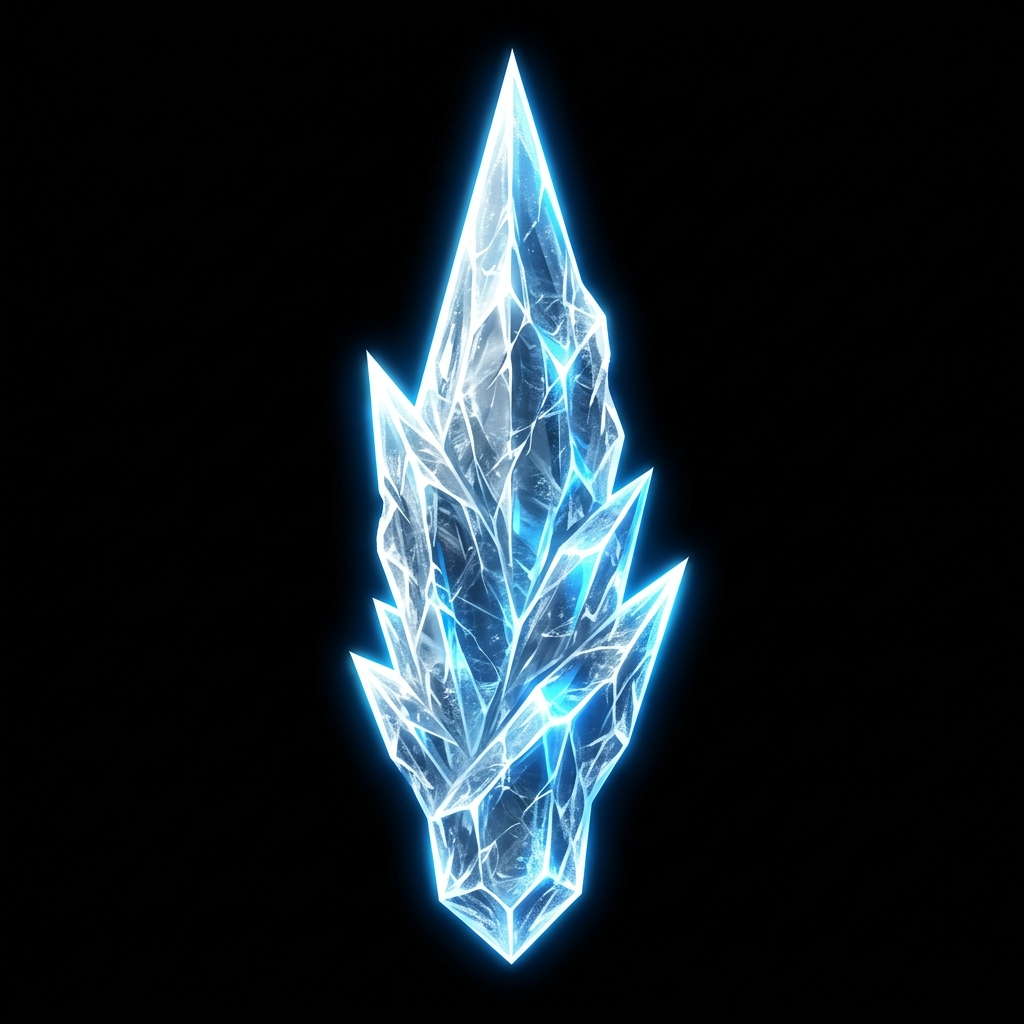
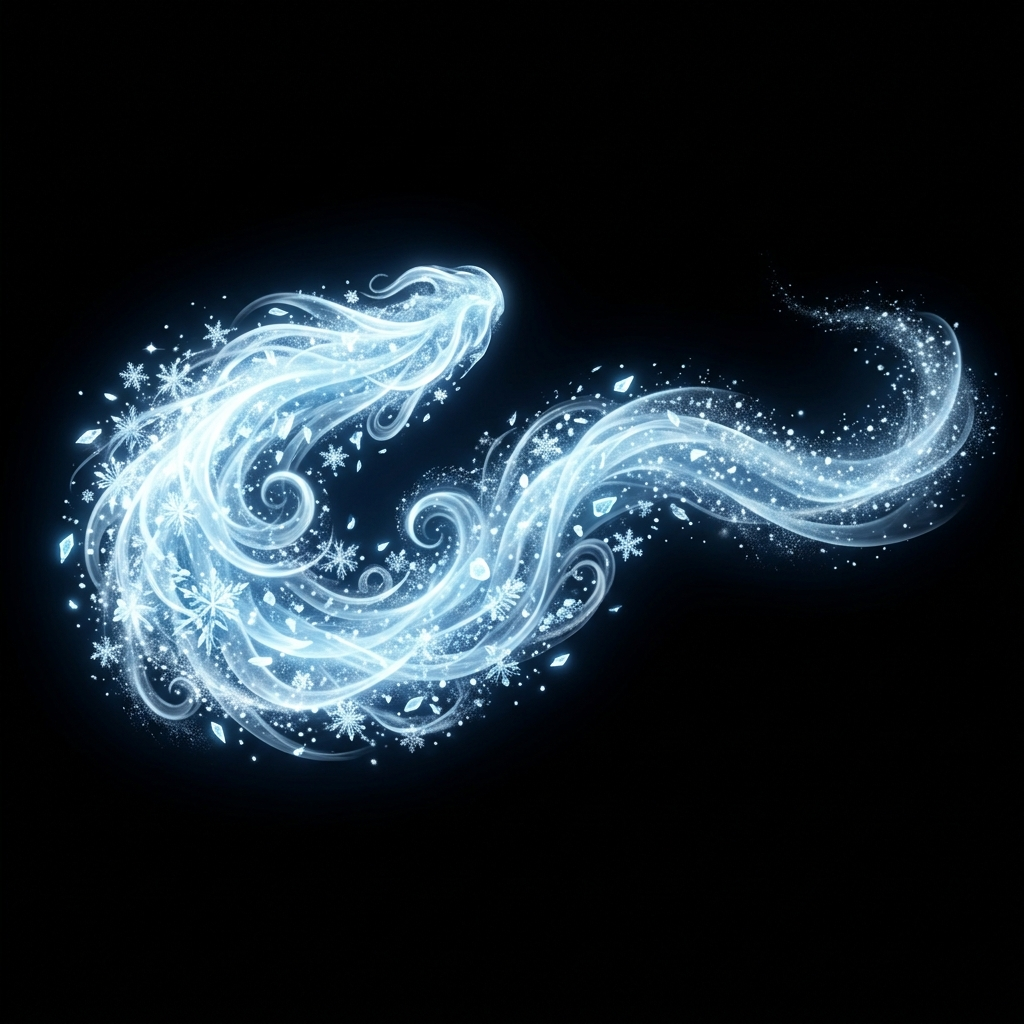
Skills Fixeados

diff --git a/descon/server/systems/combatHandlers.js b/descon/server/systems/combatHandlers.js
@@ -193,35 +193,42 @@ function registerCombatHandlers(socket, io, state) {
             p.hasStealthTimer = true; 
             io.to(`zone_${p.zone}`).emit('remoteStatSync', { id: socket.id, isInvisible: true });
         } else if (data.skillName === "FROST-TRAIL") {
-            const config = (state.SERVER_CONFIG.skillsData) ? state.SERVER_CONFIG.skillsData["FROST-TRAIL"] : { duration: 6, radius: 120 };
+            const config = (state.SERVER_CONFIG && state.SERVER_CONFIG.skillsData) ? state.SERVER_CONFIG.skillsData["FROST-TRAIL"] : { duration: 6, radius: 120, cd: 12 };
             const duration = (config.duration || 6) * 1000;
+            const skillEndTime = Date.now() + duration; 
             
-            socket.emit('gameNotification', { msg: "┬íESTELA DE HIELO ACTIVADA!", type: "info" });
+            socket.emit('gameNotification', { msg: "¡ESTELA DE HIELO ACTIVADA!", type: "info" });
             
-            let trailTime = 0;
+            let lastX = -9999; // Forzar el primer spawn
+            let lastY = -9999;
+
             const trailInterval = setInterval(() => {
                 const currentPlayer = state.players[socket.id];
-                if (!currentPlayer || trailTime >= duration) {
+                if (!currentPlayer || Date.now() >= skillEndTime) {
                     clearInterval(trailInterval);
                     return;
                 }
                 
-                const areaId = `frost_${state.nextAreaId++}`;
-                state.activeAreas[areaId] = {
-                    id: areaId,
-                    x: currentPlayer.x,
-                    y: currentPlayer.y,
-                    radius: 20,
-                    type: 'ICE',
-                    ownerId: socket.id,
-                    slowAmount: config.slow_amount || 0.5,
-                    endTime: Date.now() + 2500, 
-                    zone: currentPlayer.zone
-                };
-                
-                io.to(`zone_${currentPlayer.zone}`).emit('spawnArea', state.activeAreas[areaId]);
-                trailTime += 150;
-            }, 150);
+                const dist = Math.hypot(currentPlayer.x - lastX, currentPlayer.y - lastY);
+                if (dist > 25) {
+                    const areaId = `frost_${state.nextAreaId++}`;
+                    state.activeAreas[areaId] = {
+                        id: areaId,
+                        x: currentPlayer.x,
+                        y: currentPlayer.y,
+                        radius: 35, 
+                        type: 'ICE',
+                        ownerId: socket.id,
+                        slowAmount: config.slow_amount || 0.6,
+                        endTime: skillEndTime, // v246.5: Todo el rastro desaparece al terminar el skill
+                        zone: currentPlayer.zone
+                    };
+                    
+                    io.to(`zone_${currentPlayer.zone}`).emit('spawnArea', state.activeAreas[areaId]);
+                    lastX = currentPlayer.x;
+                    lastY = currentPlayer.y;
+                }
+            }, 100);
         }
 
         if (target.socketId) {

diff --git a/descon/server/systems/gameLoop.js b/descon/server/systems/gameLoop.js
@@ -137,7 +137,15 @@ function startGameLoop(io, state, aiManager) {
                         const owner = players[area.ownerId];
                         let is_ally = (pSocketId === area.ownerId);
                         if (owner && !is_ally) {
-                            if (p.clanId != null && owner.clanId != null && p.clanId == owner.clanId) is_ally = true;
+                            // v245.96: Alianza por Clan (Comparación de String robusta)
+                            if (p.clanId && owner.clanId && String(p.clanId) === String(owner.clanId)) is_ally = true;
+                            
+                            // v245.97: Alianza por Grupo (Party)
+                            const pUid = p.id ? p.id.toString() : null;
+                            const oUid = owner.id ? owner.id.toString() : null;
+                            if (pUid && oUid && state.playerParty[pUid] && state.playerParty[pUid] === state.playerParty[oUid]) {
+                                is_ally = true;
+                            }
                         }
 
                         if (area.type === 'SMOKE' && !is_ally) {